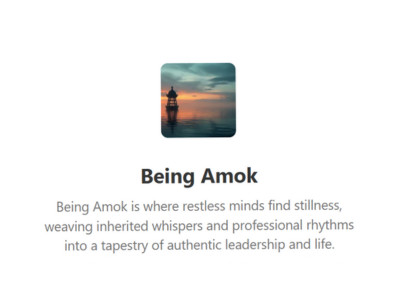
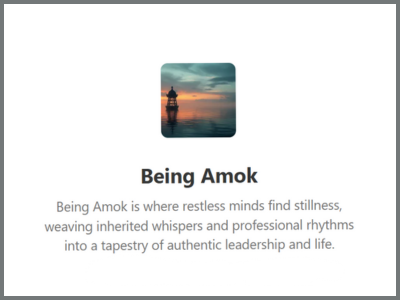
Add outline to being amok image

Changed region(s): [[0.0, 0.0, 1.0, 1.0]]

diff --git a/_resources/02-reground-with-strengths.md b/_resources/02-reground-with-strengths.md
@@ -1,13 +1,13 @@
 ---
-title: Reground Your Strengths
+title: Reground with Strengths
 subtitle: A framework to help you reconnect with what grounds you
-image: assets/img/resources/reground-your-strengths-400x300.png #700x460
+image: assets/img/resources/reground-with-strengths-400x300.png #700x460
 alt: Shirts on a hanger
 
 caption:
-  title: Reground Your Strengths
+  title: Reground with Strengths
   subtitle: A framework to help you reconnect with what grounds you
-  thumbnail: assets/img/resources/reground-your-strengths-400x300.png #400x300
+  thumbnail: assets/img/resources/reground-with-strengths-400x300.png #400x300
 ---
 
 When leadership feels unsteady — especially during periods of uncertainty, change, or low morale — this framework offers a way to pause, reflect, and reconnect with your strengths. It was created to support leaders who continue showing up and serving, even when the environment around them feels unstable.
